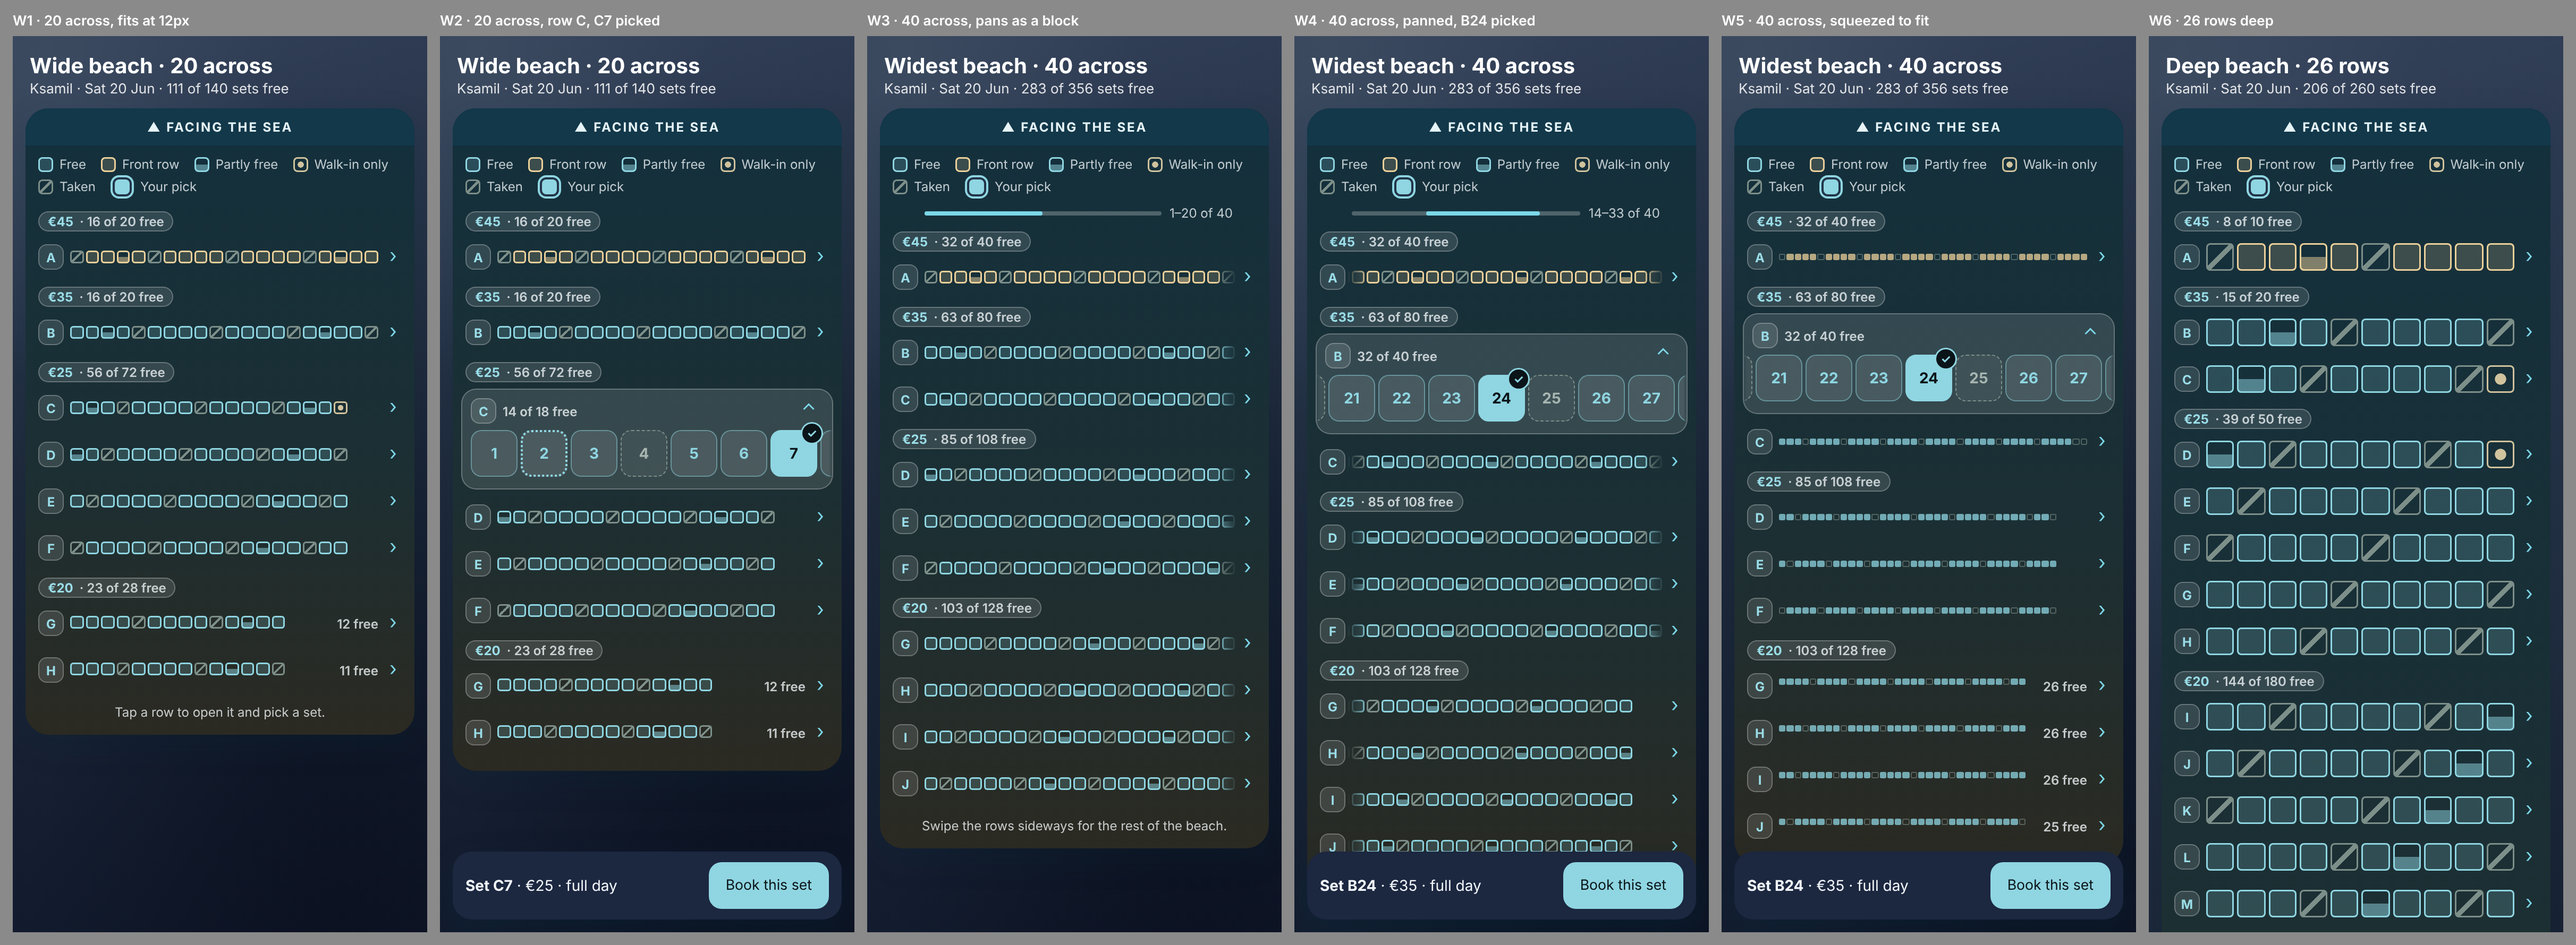
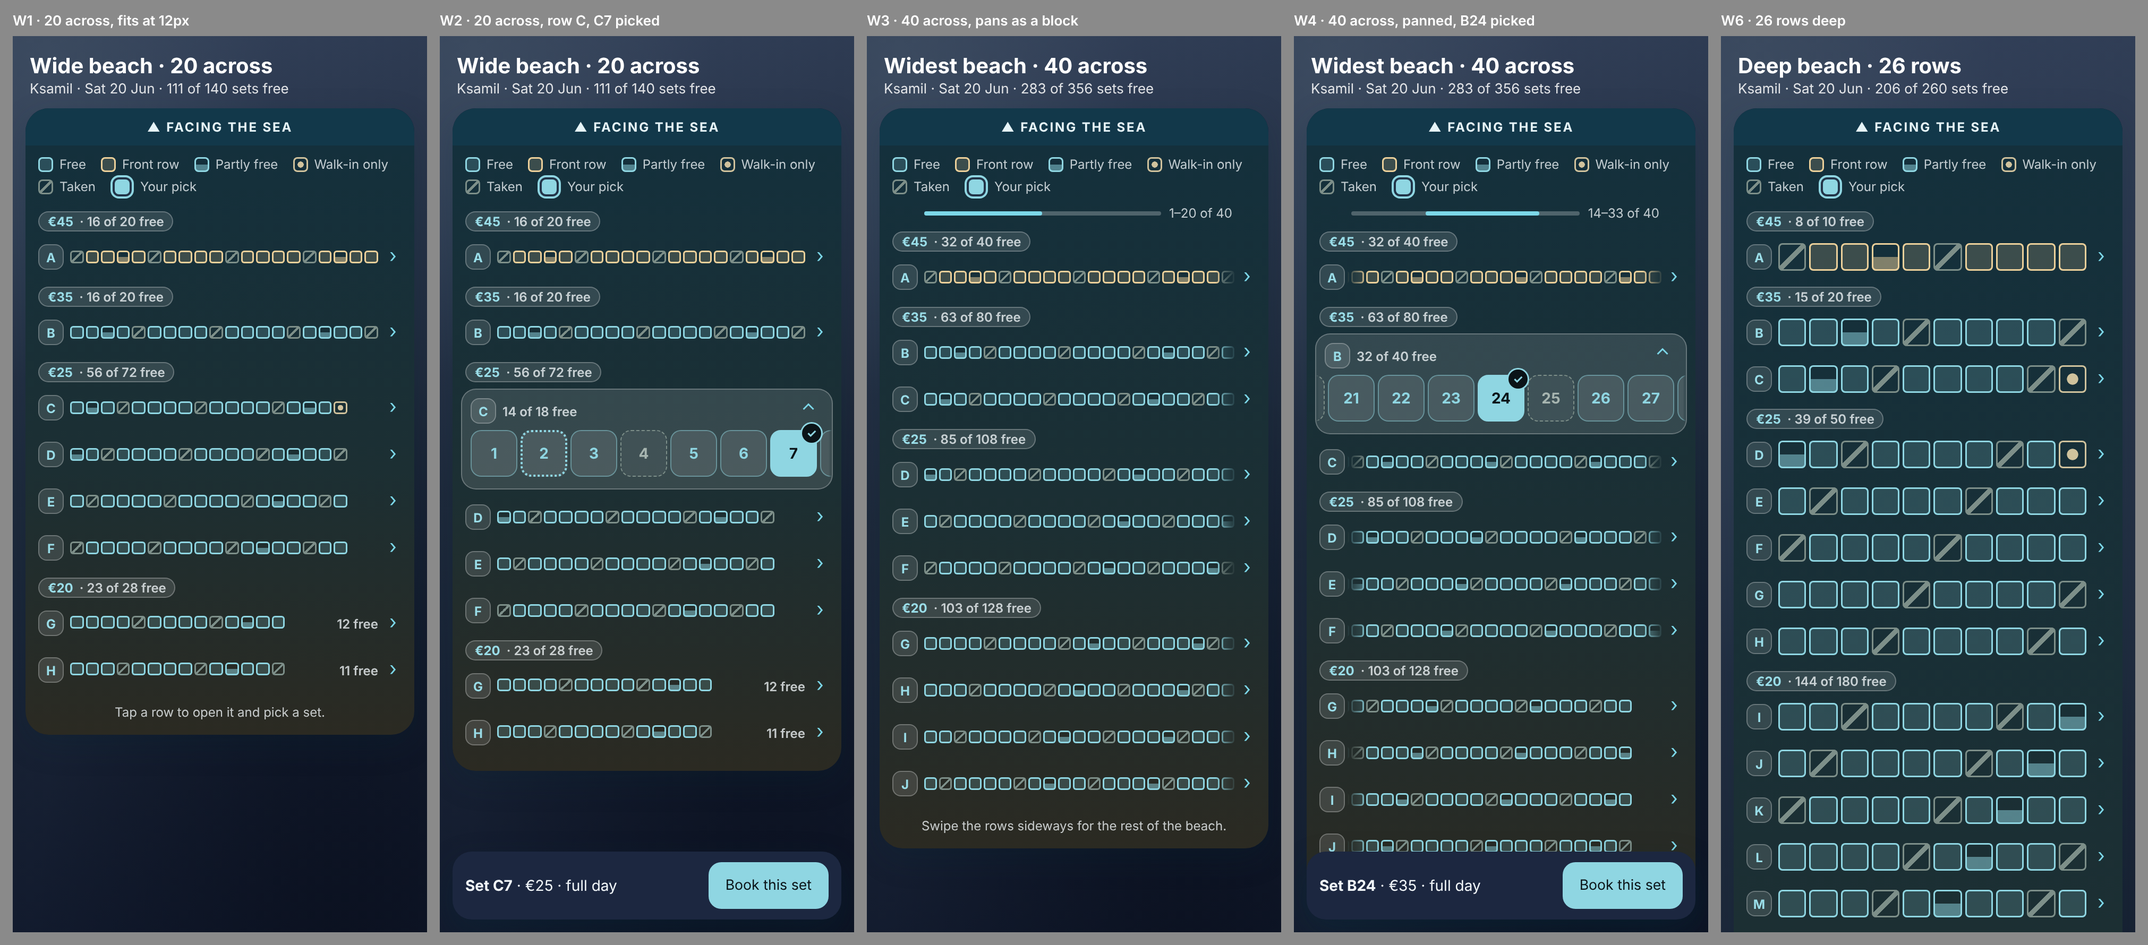
spike(#1762): past 20 columns the overview pans; drop the squeezed mode
The owner picked the pan. The squeezed density map stays viewable at 9a2f39a.

Claude-Session: https://claude.ai/code/session_0138xCuD1zWCmnG7tBYDGynZ

Changed region(s): [[0.0, 0.0, 0.997, 0.9888], [0.0, 0.0, 0.0935, 0.0309]]

diff --git a/frontend/src/app/venue/PROTOTYPE-1762-phone-map.html b/frontend/src/app/venue/PROTOTYPE-1762-phone-map.html
@@ -12,9 +12,9 @@
   letter, so a 7-wide row fits at 44px with no pan. Rows in a shared band show their own free
   count in the empty columns. The open row follows the pick, else the first row with a free set.
   Wide and deep beaches (the editor allows 40 × 26): ?beach=wide20|wide40|deep26. Up to 20 columns
-  the overview fits, cells shrinking to a 12px floor. Past 20, ?wide=pan (default) keeps 12px cells
-  and pans every closed row as one block, following the open row; ?wide=fit squeezes all columns in
-  as a free-vs-not density map. The open row starts at the pick when it holds it.
+  the overview fits, cells shrinking to a 12px floor. Past 20 it keeps 12px cells and pans every
+  closed row as one block, following the open row (the squeezed density map is at 9a2f39a).
+  The open row starts at the pick when it holds it.
   Fixture: Miramar (frontend/e2e/support/miramar-map.ts): row A 13 wide, B–I 7, five price zones,
   taken where (position + row) % 5 === 0; partly-free and walk-in sets added for the prototype.
   Colours are copied from src/tailwind.css's theme tokens.
@@ -421,29 +421,6 @@
         border-radius: 2px;
         background: var(--accent-ink);
       }
-      /* squeezed to fit: a density map, free vs not */
-      .ov.micro {
-        gap: 1px;
-      }
-      .ov.micro .cell {
-        border-radius: 1.5px;
-        box-shadow: none;
-        background: color-mix(in srgb, var(--c) 75%, transparent);
-      }
-      .ov.micro .cell.tk,
-      .ov.micro .cell.wk {
-        background: none;
-        box-shadow: inset 0 0 0 1px color-mix(in srgb, var(--tk-border) 55%, transparent);
-        opacity: 1;
-      }
-      .ov.micro .cell.sel {
-        background: var(--sel-fill);
-        box-shadow:
-          0 0 0 1.5px var(--card-glass),
-          0 0 0 3px var(--sel-fill);
-        position: relative;
-        z-index: 1;
-      }
       /* one vocabulary at both scales: tint + edge = free, strike = taken, SOLID = your pick only */
       .cell,
       .sw {
@@ -699,11 +676,10 @@
       const BEACH = BEACHES[beachKey];
       const ROWS = BEACH.rows;
       const COLS = Math.max(...Object.values(ROWS).map((r) => r.length));
-      // Up to FIT_COLS the overview fits the width (cells shrink to a 12px floor). Past it:
-      // ?wide=pan keeps 12px cells and pans the whole overview as one block; ?wide=fit squeezes
-      // every column in as a density map (free vs not, no finer state).
+      // Up to FIT_COLS the overview fits the width (cells shrink to a 12px floor). Past it the
+      // overview keeps 12px cells and pans as one block.
       const FIT_COLS = 20;
-      const wide = COLS <= FIT_COLS ? 'none' : qs.get('wide') === 'fit' ? 'fit' : 'pan';
+      const panning = COLS > FIT_COLS;
       document.querySelector('.venue-head h1').textContent = BEACH.name;
       const rows = Object.entries(ROWS).map(([label, prices], r) => ({
         label,
@@ -773,7 +749,7 @@
         for (let c = 1; c <= COLS; c++) {
           const s = r.sets[c - 1];
           if (!s) {
-            if (note && wide !== 'pan' && COLS - c + 1 >= (COLS > 13 ? 5 : 3)) {
+            if (note && !panning && COLS - c + 1 >= (COLS > 13 ? 5 : 3)) {
               h += `<span class="rowfree" style="grid-column:${c} / -1">${note}</span>`;
               break;
             }
@@ -782,9 +758,9 @@
           }
           h += `<i class="cell ${state.sel === s.code ? 'sel' : cls(s)}"></i>`;
         }
-        const cols = wide === 'pan' ? `repeat(${COLS}, 12px)` : `repeat(${COLS}, minmax(0, 1fr))`;
-        const size = wide === 'fit' ? 'micro' : COLS > 13 ? 'small' : '';
-        return `<div class="ovwrap ${wide === 'pan' ? 'panning' : ''}" aria-hidden="true"><div class="ov ${size}" style="grid-template-columns:${cols}">${h}</div></div>`;
+        const cols = panning ? `repeat(${COLS}, 12px)` : `repeat(${COLS}, minmax(0, 1fr))`;
+        const size = COLS > 13 ? 'small' : '';
+        return `<div class="ovwrap ${panning ? 'panning' : ''}" aria-hidden="true"><div class="ov ${size}" style="grid-template-columns:${cols}">${h}</div></div>`;
       };
       const legend = () =>
         `<div class="legend">
@@ -799,7 +775,7 @@
       // ---- row lens ----
       function lensMap() {
         let h = legend();
-        if (wide === 'pan')
+        if (panning)
           h += `<div class="ovbar" aria-hidden="true"><div><i id="ovthumb"></i></div><span id="ovtext"></span></div>`;
         for (const z of ZONES) {
           const zr = rowsOf(z);
@@ -822,8 +798,7 @@
             }
           }
         }
-        if (wide === 'pan')
-          h += `<p class="hint">Swipe the rows sideways for the rest of the beach.</p>`;
+        if (panning) h += `<p class="hint">Swipe the rows sideways for the rest of the beach.</p>`;
         else if (!state.lens) h += `<p class="hint">Tap a row to open it and pick a set.</p>`;
         return h;
       }
@@ -900,7 +875,6 @@
         const p = new URLSearchParams();
         p.set('theme', state.theme);
         if (beachKey !== 'miramar') p.set('beach', beachKey);
-        if (wide === 'fit') p.set('wide', 'fit');
         if (state.ovx) p.set('ovx', Math.round(state.ovx));
         p.set('lens', state.lens || 'none');
         if (state.sel) p.set('sel', state.sel);
